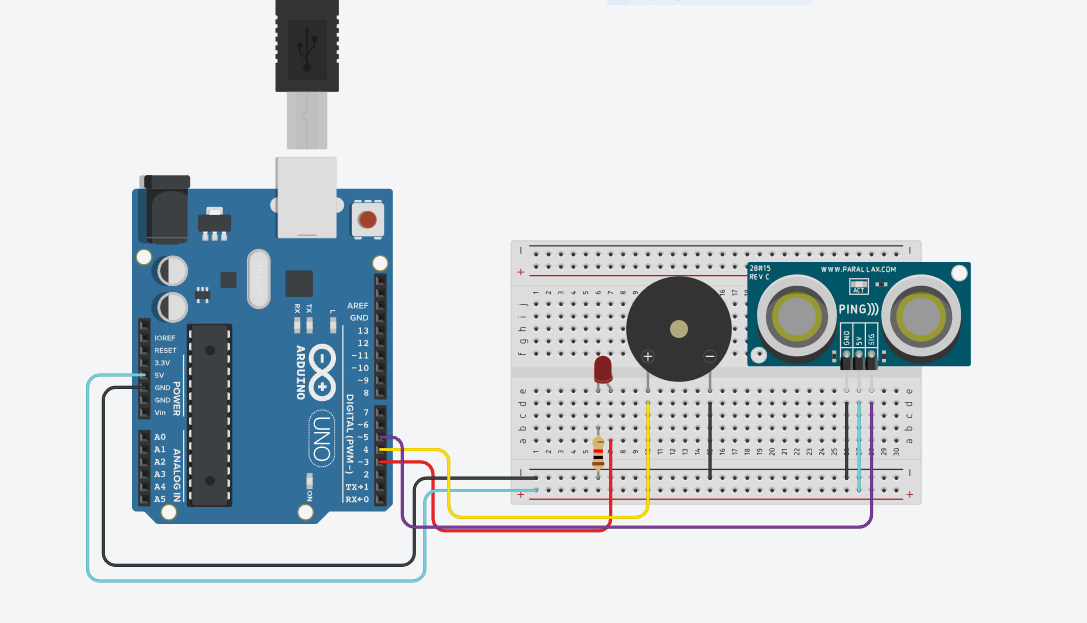
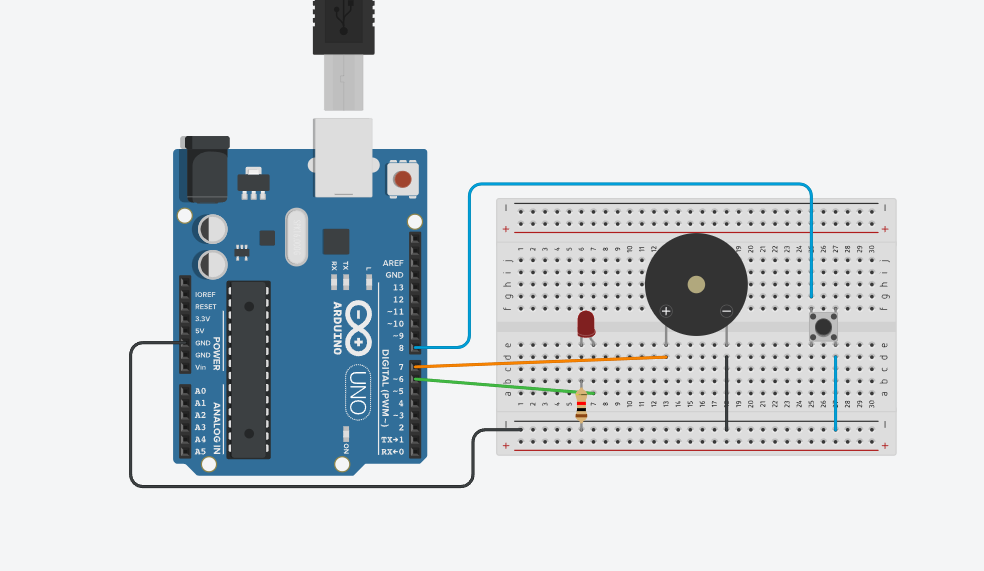
lab5

diff --git a/lab4.py b/lab4.py
@@ -1,45 +1,29 @@
-const int pingPin = 5;      
-const int buzzerPin = 4;     
-const int ledPin = 3;        
+int ledPin = 6;
+int buttonPin = 8;
+int buzzerPin = 7;
 
 void setup() {
-  pinMode(buzzerPin, OUTPUT);
   pinMode(ledPin, OUTPUT);
-  Serial.begin(9600); 
+  pinMode(buzzerPin, OUTPUT);
+  
+  pinMode(buttonPin, INPUT_PULLUP);
 }
 
 void loop() {
-  long duration, cm;
-
-  pinMode(pingPin, OUTPUT);
-  digitalWrite(pingPin, LOW);
-  delayMicroseconds(2);
-  digitalWrite(pingPin, HIGH);
-  delayMicroseconds(5);
-  digitalWrite(pingPin, LOW);
-  pinMode(pingPin, INPUT);
-  duration = pulseIn(pingPin, HIGH);
-
-  cm = duration / 29 / 2;
-
-  Serial.print("Distance: ");
-  Serial.print(cm);
-  Serial.println(" cm");
-
-  if (cm > 0 && cm < 150) {
+  int buttonState = digitalRead(buttonPin);
+  
+  if (buttonState == LOW) { 
+    
     digitalWrite(ledPin, HIGH);
-    delay(100);
-    digitalWrite(ledPin, LOW);
-    delay(100);
+    
     digitalWrite(buzzerPin, HIGH);
-    delay(100);
-    digitalWrite(buzzerPin, LOW);
-    delay(100);
-
-  } else {
-    digitalWrite(buzzerPin, LOW);
+    
+  } else 
+  
+  {
+    
     digitalWrite(ledPin, LOW);
+    
+    digitalWrite(buzzerPin, LOW);
   }
-
-  delay(100); 
 }

diff --git a/lab5.py b/lab5.py
@@ -1,0 +1,45 @@
+const int pingPin = 5;      
+const int buzzerPin = 4;     
+const int ledPin = 3;        
+
+void setup() {
+  pinMode(buzzerPin, OUTPUT);
+  pinMode(ledPin, OUTPUT);
+  Serial.begin(9600); 
+}
+
+void loop() {
+  long duration, cm;
+
+  pinMode(pingPin, OUTPUT);
+  digitalWrite(pingPin, LOW);
+  delayMicroseconds(2);
+  digitalWrite(pingPin, HIGH);
+  delayMicroseconds(5);
+  digitalWrite(pingPin, LOW);
+  pinMode(pingPin, INPUT);
+  duration = pulseIn(pingPin, HIGH);
+
+  cm = duration / 29 / 2;
+
+  Serial.print("Distance: ");
+  Serial.print(cm);
+  Serial.println(" cm");
+
+  if (cm > 0 && cm < 150) {
+    digitalWrite(ledPin, HIGH);
+    delay(100);
+    digitalWrite(ledPin, LOW);
+    delay(100);
+    digitalWrite(buzzerPin, HIGH);
+    delay(100);
+    digitalWrite(buzzerPin, LOW);
+    delay(100);
+
+  } else {
+    digitalWrite(buzzerPin, LOW);
+    digitalWrite(ledPin, LOW);
+  }
+
+  delay(100); 
+}
